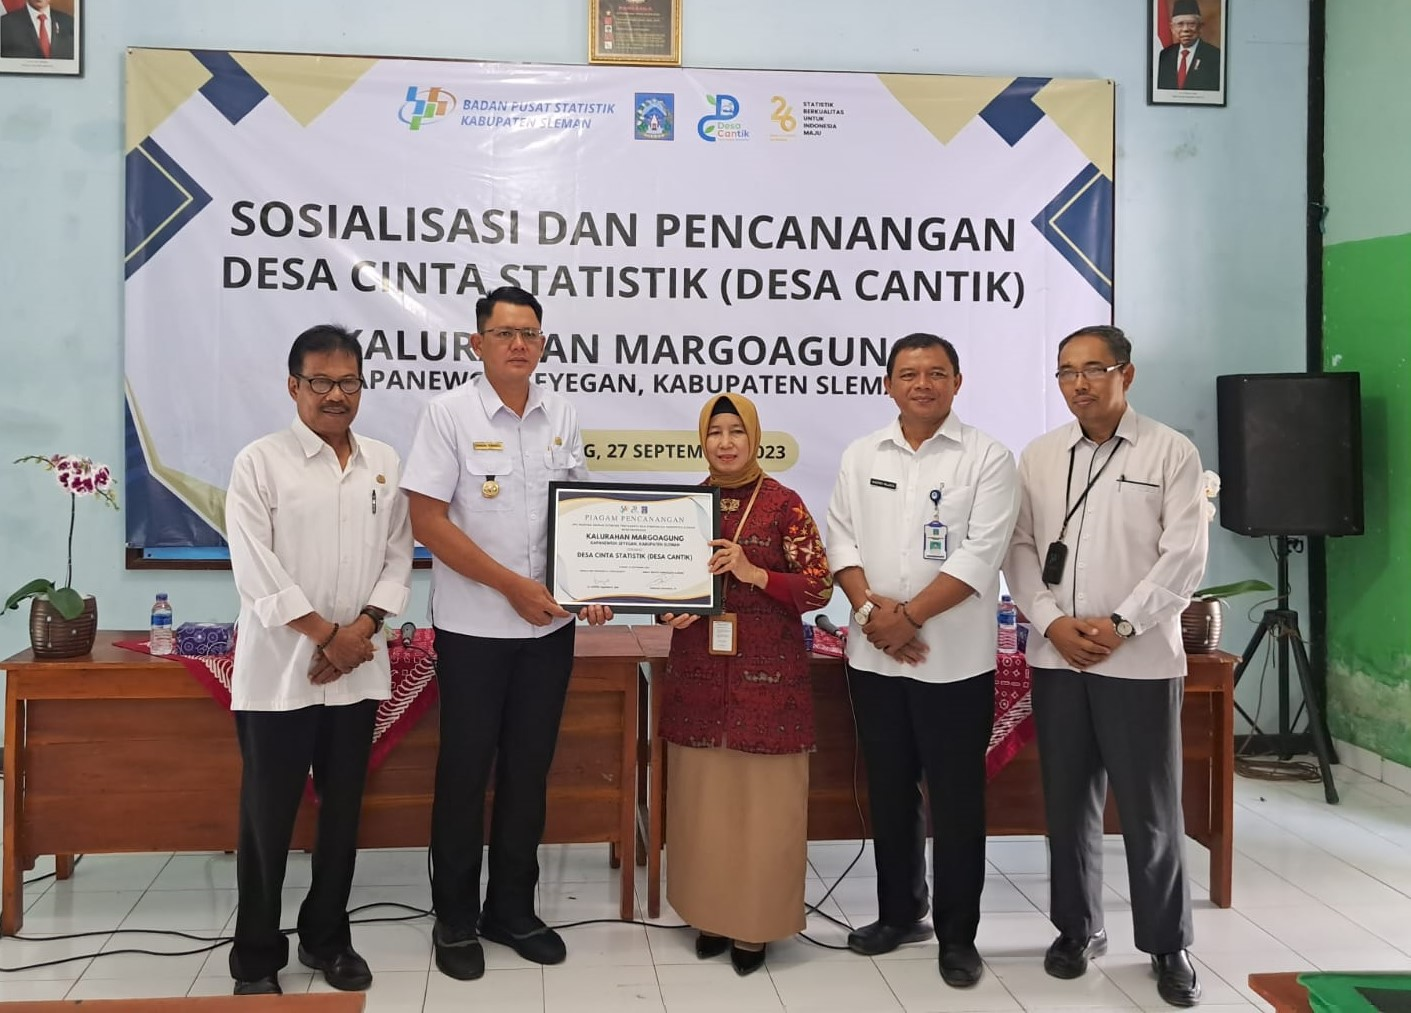
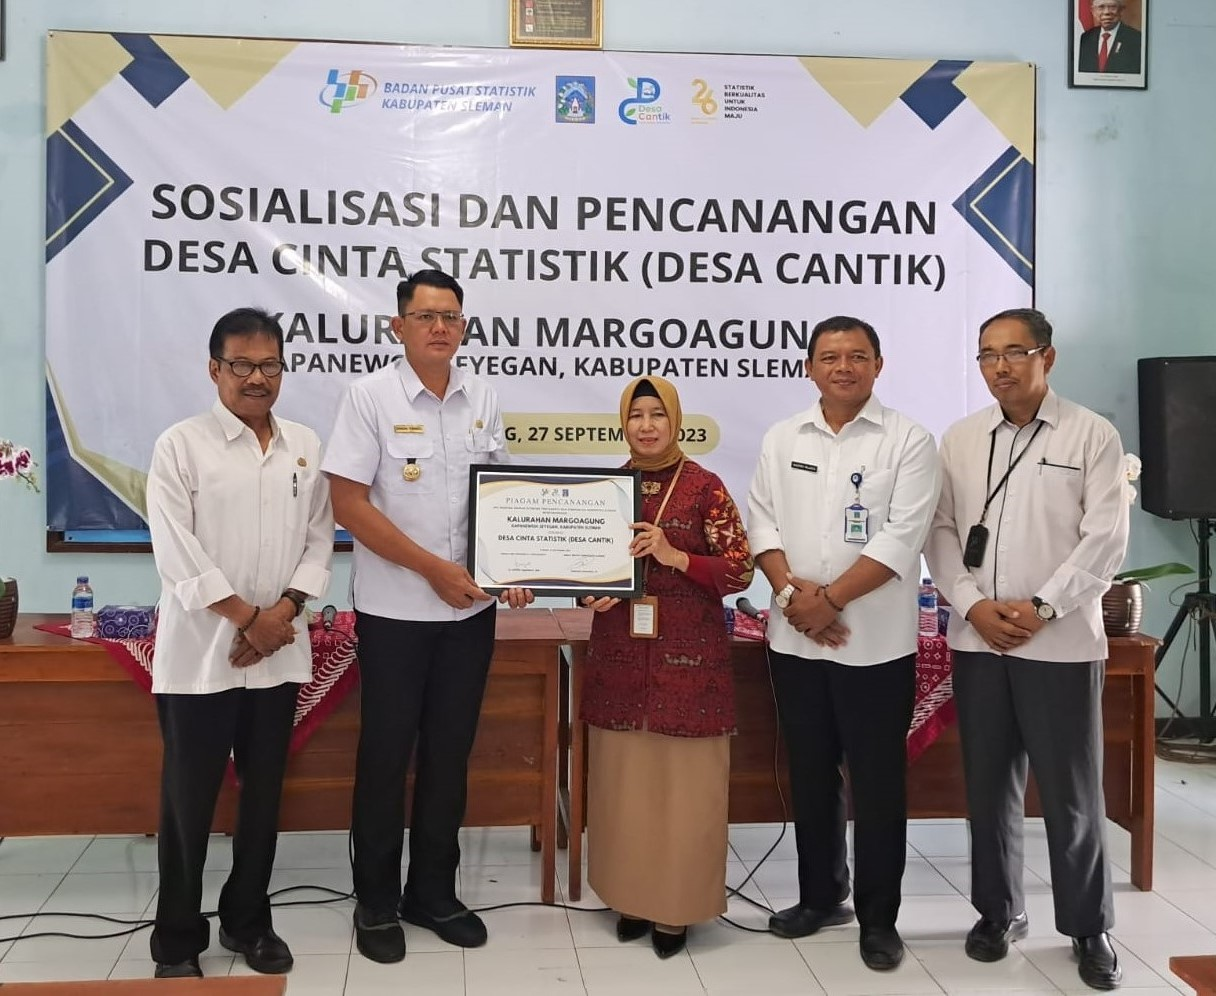
change
change to pencanagan dan latar belakang

diff --git a/src/app/components/home/Page-3.jsx b/src/app/components/home/Page-3.jsx
@@ -2,11 +2,17 @@
 import * as React from "react";
 import { useRef } from "react";
 import Box from "@mui/joy/Box";
-import NextImage from "next/image";
 import { dm_sans } from "@/app/utils/fonts";
 import Typography from "@mui/joy/Typography";
 import { Stack } from "@mui/joy";
 import { motion, useScroll, useTransform } from "framer-motion";
+import AspectRatio from "@mui/joy/AspectRatio";
+import Card from "@mui/joy/Card";
+import CardContent from "@mui/joy/CardContent";
+import CardOverflow from "@mui/joy/CardOverflow";
+import Divider from "@mui/joy/Divider";
+import NextImage from "next/image";
+import CardData from "@/app/components/home/CardData";
 
 export default function Page2() {
   const ref = useRef(null);
@@ -81,56 +87,61 @@ export default function Page2() {
                 }}
                 className={dm_sans.className}
               >
-                Program Keluarga Harapan
+                Latar Belakang
               </Typography>
             </Box>
             <Box
               sx={{
                 display: "flex",
                 justifyContent: "center",
-                alignItems: "flex-start",
-                gap: 2,
+                alignItems: "stretch",
+                gap: 3,
                 flexDirection: {
                   xs: "column",
                   sm: "row",
                 },
               }}
             >
-              <Typography
-                component="h1"
-                sx={{
-                  fontWeight: "normal",
-                  color: "text.secondary",
-                  fontSize: {
-                    xs: "1rem",
-                    sm: "1.2rem",
-                  },
-                  "@media (min-width:600px)": {
-                    fontSize: "1.1rem",
-                  },
-                }}
-                className={dm_sans.className}
-              >
-                Pemerintah Indonesia telah mengambil langkah berani dalam upaya
-                mengatasi kemiskinan melalui berbagai kebijakan, salah satunya
-                adalah Program Keluarga Harapan (PKH). PKH adalah program
-                perlindungan sosial yang dirancang untuk memberikan bantuan
-                keuangan kepada keluarga miskin dan rentan di seluruh
-                negeri.Dengan adanya PKH, pemerintah berusaha untuk mengurangi
-                tingkat kemiskinan, meningkatkan akses pendidikan, kesehatan,
-                dan nutrisi bagi keluarga miskin, serta mendorong mereka untuk
-                meningkatkan produktivitas ekonomi.
-              </Typography>
-              <NextImage
-                src="/program-keluarga-harapan.jpg"
-                alt="Indonesian Child Image"
-                width={0}
-                height={0}
-                layout="responsive"
-                style={{ objectFit: "cover", maxWidth: "350px" }}
-                quality={100}
-                blurDataURL="/stunting-image.jpg"
-              />
+              {CardData.map((item, index) => {
+                return (
+                  <Card variant="outlined" sx={{ width: 320 }}>
+                    <CardOverflow>
+                      <AspectRatio ratio="2">
+                        <NextImage
+                          src={item.logo}
+                          width={100}
+                          height={100}
+                          alt={item.altLogo}
+                          layout="responsive"
+                          quality={100}
+                          blurDataURL="/stunting-image.jpg"
+                        />
+                      </AspectRatio>
+                    </CardOverflow>
+                    <CardContent>
+                      <Typography level="title-md">{item.instansi}</Typography>
+                      <Typography level="body-sm">
+                        {item.description}
+                      </Typography>
+                    </CardContent>
+                    <CardOverflow
+                      variant="soft"
+                      sx={{ bgcolor: "background.level1" }}
+                    >
+                      <Divider inset="context" />
+                      <CardContent orientation="horizontal">
+                        <Typography
+                          level="body-xs"
+                          fontWeight="md"
+                          textColor="text.secondary"
+                        >
+                          {item.peraturan}
+                        </Typography>
+                      </CardContent>
+                    </CardOverflow>
+                  </Card>
+                );
+              })}
             </Box>
           </motion.div>
         </Stack>

diff --git a/src/app/components/home/Page-2.jsx b/src/app/components/home/Page-2.jsx
@@ -82,7 +82,7 @@ export default function Page2() {
                 }}
                 className={dm_sans.className}
               >
-                Kemiskinan : Sebuah Tantangan Global
+                Pencanangan Desa Cinta Statistik
               </Typography>
             </Box>
             <Box
@@ -98,12 +98,12 @@ export default function Page2() {
               }}
             >
               <NextImage
-                src="/stunting-image.jpg"
+                src="/bg-cover.jpeg"
                 alt="Indonesian Child Image"
                 width={0}
                 height={0}
                 layout="responsive"
-                style={{ objectFit: "cover", maxWidth: "400px" }}
+                style={{ objectFit: "cover", maxWidth: "420px" }}
                 quality={100}
                 blurDataURL="/stunting-image.jpg"
               />
@@ -124,16 +124,18 @@ export default function Page2() {
                 }}
                 className={dm_sans.className}
               >
-                Kemiskinan adalah tantangan global yang kompleks. Kemiskinan
-                struktural, salah satu bentuknya, menciptakan kesenjangan
-                ekonomi yang sulit diatasi karena faktor-faktor seperti akses
-                pendidikan dan pekerjaan yang adil tidak merata. Untuk mengatasi
-                masalah ini, diperlukan upaya kolaboratif yang fokus pada
-                perubahan struktural dalam sistem ekonomi dan sosial. Melalui
-                kebijakan yang bijak dan kesadaran akan ketidaksetaraan
-                struktural, kita dapat membangun masyarakat yang lebih inklusif
-                dan berdaya tahan, di mana setiap individu memiliki peluang yang
-                sama untuk berkembang dan berkontribusi secara positif.
+                Desa Cinta Statistik merupakan program yang dilaksanakan oleh
+                Badan Pusat Statistik (BPS). Program ini bertujuan untuk
+                memberikan literasi kepada perangkat desa/kelurahan dalam
+                memahami data dan indikator yang dicakup dalam Regsosek dan
+                melakukan identifikasi pemanfaatan data Regsosek untuk kebutuhan
+                desa dalam rangka upaya mengentaskan kemiskinan.
+                <br></br>
+                Pada tahun 2023, Kalurahan Margoagung, Kapanewon Seyegan,
+                Kabupaten Sleman terpilih sebagai Desa Cinta Statistik.
+                Pencanangan Desa Cantik dilaksanakan pada tanggal 27 September
+                2023 yang dihadiri oleh Wakil Bupati Sleman dan Kepala BPS
+                Provinsi DIY.
               </Typography>
             </Box>
           </motion.div>

diff --git a/src/app/components/home/CardData.js b/src/app/components/home/CardData.js
@@ -1,0 +1,38 @@
+const CardData = [
+  {
+    instansi: "Badan Pusat Statistik",
+    logo: "/card/card-bps.png",
+    altLogo: "Logo BPS",
+    description:
+      "BPS menjadi leading sector dalam pembinaan statistik sektoral sebagai bentuk pengembangan Sistem Statistik Nasional (SSN)",
+    peraturan: "UU No. 16 Tahun 1997 Tentang Statistik",
+  },
+  {
+    instansi: "Satu Data Indonesia",
+    logo: "/card/card-sdi.png",
+    altLogo: "Logo Satu Data Indonesia",
+    description:
+      "BPS sebagai pembina data statistik\n" +
+      "Mempunyai tugas dalam pembinaan penyelenggaraan Satu Data Indonesia\n",
+    peraturan: "Perpres No.39 Tahun 2019\n" + "Tentang Satu Data Indonesia\n",
+  },
+  {
+    instansi: "Reformasi Birokrasi",
+    logo: "/card/card-rb.png",
+    altLogo: "Logo RB BPS",
+    description:
+      "Implementasi Desa Cantik sebagai sarana dalam penguatan kelembagaan BPS\n" +
+      "\n",
+    peraturan: "Permenpan RB No.25 Tahun 2020\n" + "Tentang Roadmap RB",
+  },
+  {
+    instansi: "Undang-Undang RI",
+    logo: "/card/card-perpres.png",
+    altLogo: "Logo UU",
+    description:
+      "Perlunya pemanfaatan data melalui sistem informasi desa dalam proses pembangunan desa yang lebih baik",
+    peraturan: "UU No.6 Tahun 2014 Tentang Desa>",
+  },
+];
+
+export default CardData;

diff --git a/src/app/components/home/Page-1.jsx b/src/app/components/home/Page-1.jsx
@@ -199,11 +199,8 @@ export default function Page1() {
               size="sm"
             >
               <Button
-                color="neutral"
+                color="primary"
                 sx={{
-                  "&:hover": {
-                    bgcolor: "rgba(182,182,182,0.13)",
-                  },
                   borderRadius: 100,
                   borderColor: "rgba(182,182,182,0.73)",
                   display: {
@@ -214,7 +211,7 @@ export default function Page1() {
                   p: 1,
                   px: 3,
                 }}
-                variant="outlined"
+                variant="solid"
               >
                 Masuk
                 <LoginIcon

diff --git a/src/app/styles.css b/src/app/styles.css
@@ -167,3 +167,9 @@ main h2 {
 /*  background-position: 90% 50%;*/
 /*    background:linear-gradient(0deg, rgba(218, 218, 218, 0.9), rgba(148, 148, 148, 0.9)), url("/bg-cover.jpeg");*/
 /*}*/
+
+/*@media screen and (max-width: 600px) {*/
+/*  #home-hero{*/
+/*      background-position: center;*/
+/*  }*/
+/*}*/
